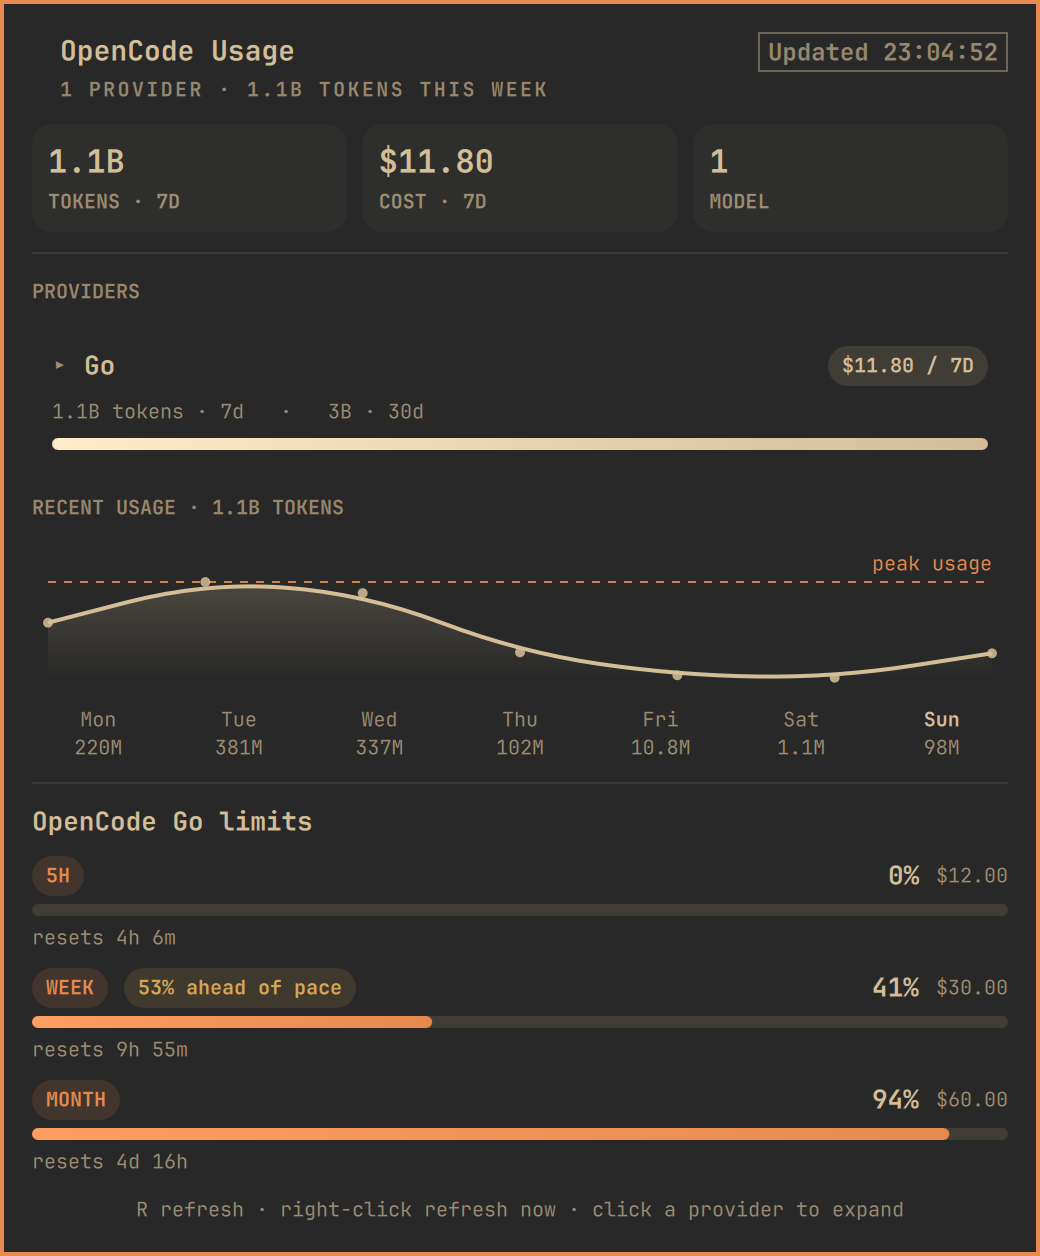
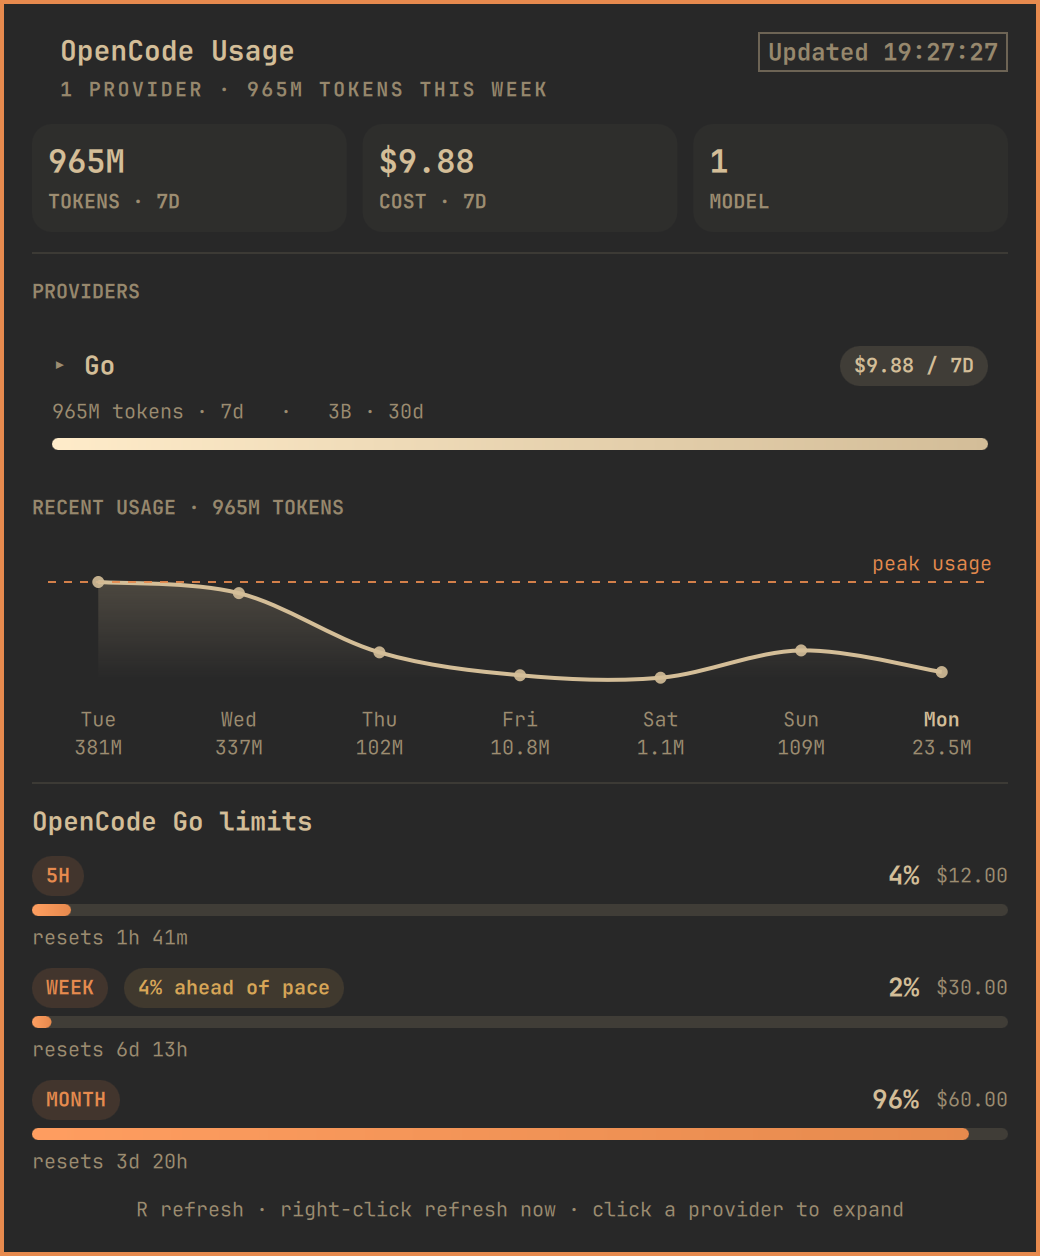
feat: align chart markers with the day labels
Share the day-label column geometry with the series, use Catmull-Rom interpolation through the daily points, and draw the markers on the curve.

diff --git a/Panel.qml b/Panel.qml
@@ -375,37 +375,40 @@ Panel {
                 if (n === 0) return
                 var top = Math.max(1, spark.peak)
                 var pad = Style.space(8)
+                var gap = Style.space(4)
+                var colW = n === 1 ? width : (width - gap * (n - 1)) / n
                 var base = chart.base
                 var plotTop = chart.topPad
-                function px(i) { return n === 1 ? width / 2 : pad + i * (width - 2 * pad) / (n - 1) }
+                function px(i) { return n === 1 ? width / 2 : colW / 2 + i * (colW + gap) }
                 function py(v) { return base - (v / top) * (base - plotTop) }
-                ctx.beginPath()
-                ctx.moveTo(px(0), py(vals[0]))
-                for (var i = 1; i < n; i++) {
-                  var mx = (px(i - 1) + px(i)) / 2
-                  var my = (py(vals[i - 1]) + py(vals[i])) / 2
-                  ctx.quadraticCurveTo(px(i - 1), py(vals[i - 1]), mx, my)
+                function tracePath() {
+                  ctx.beginPath()
+                  ctx.moveTo(px(0), py(vals[0]))
+                  if (n < 2) return
+                  for (var i = 0; i < n - 1; i++) {
+                    var i0 = Math.max(0, i - 1)
+                    var i3 = Math.min(n - 1, i + 2)
+                    var p0x = px(i0), p0y = py(vals[i0])
+                    var p1x = px(i), p1y = py(vals[i])
+                    var p2x = px(i + 1), p2y = py(vals[i + 1])
+                    var p3x = px(i3), p3y = py(vals[i3])
+                    ctx.bezierCurveTo(
+                      p1x + (p2x - p0x) / 6, p1y + (p2y - p0y) / 6,
+                      p2x - (p3x - p1x) / 6, p2y - (p3y - p1y) / 6,
+                      p2x, p2y)
+                  }
                 }
-                ctx.lineTo(px(n - 1), py(vals[n - 1]))
                 var fill = ctx.createLinearGradient(0, 0, 0, base)
                 var fc = root.foreground
                 fill.addColorStop(0, Qt.rgba(fc.r, fc.g, fc.b, 0.30))
                 fill.addColorStop(1, Qt.rgba(fc.r, fc.g, fc.b, 0.0))
-                ctx.save()
+                tracePath()
                 ctx.lineTo(px(n - 1), base)
                 ctx.lineTo(px(0), base)
                 ctx.closePath()
                 ctx.fillStyle = fill
                 ctx.fill()
-                ctx.restore()
-                ctx.beginPath()
-                ctx.moveTo(px(0), py(vals[0]))
-                for (var j = 1; j < n; j++) {
-                  var nx = (px(j - 1) + px(j)) / 2
-                  var ny = (py(vals[j - 1]) + py(vals[j])) / 2
-                  ctx.quadraticCurveTo(px(j - 1), py(vals[j - 1]), nx, ny)
-                }
-                ctx.lineTo(px(n - 1), py(vals[n - 1]))
+                tracePath()
                 ctx.lineWidth = 2
                 ctx.strokeStyle = Qt.rgba(fc.r, fc.g, fc.b, 1)
                 ctx.stroke()
@@ -423,8 +426,8 @@ Panel {
                 }
                 for (var m = 0; m < n; m++) {
                   ctx.beginPath()
-                  ctx.arc(px(m), py(vals[m]), 2.5, 0, 2 * Math.PI)
-                  ctx.fillStyle = Qt.rgba(fc.r, fc.g, fc.b, 0.85)
+                  ctx.arc(px(m), py(vals[m]), 3, 0, 2 * Math.PI)
+                  ctx.fillStyle = Qt.rgba(fc.r, fc.g, fc.b, 0.9)
                   ctx.fill()
                 }
               }
